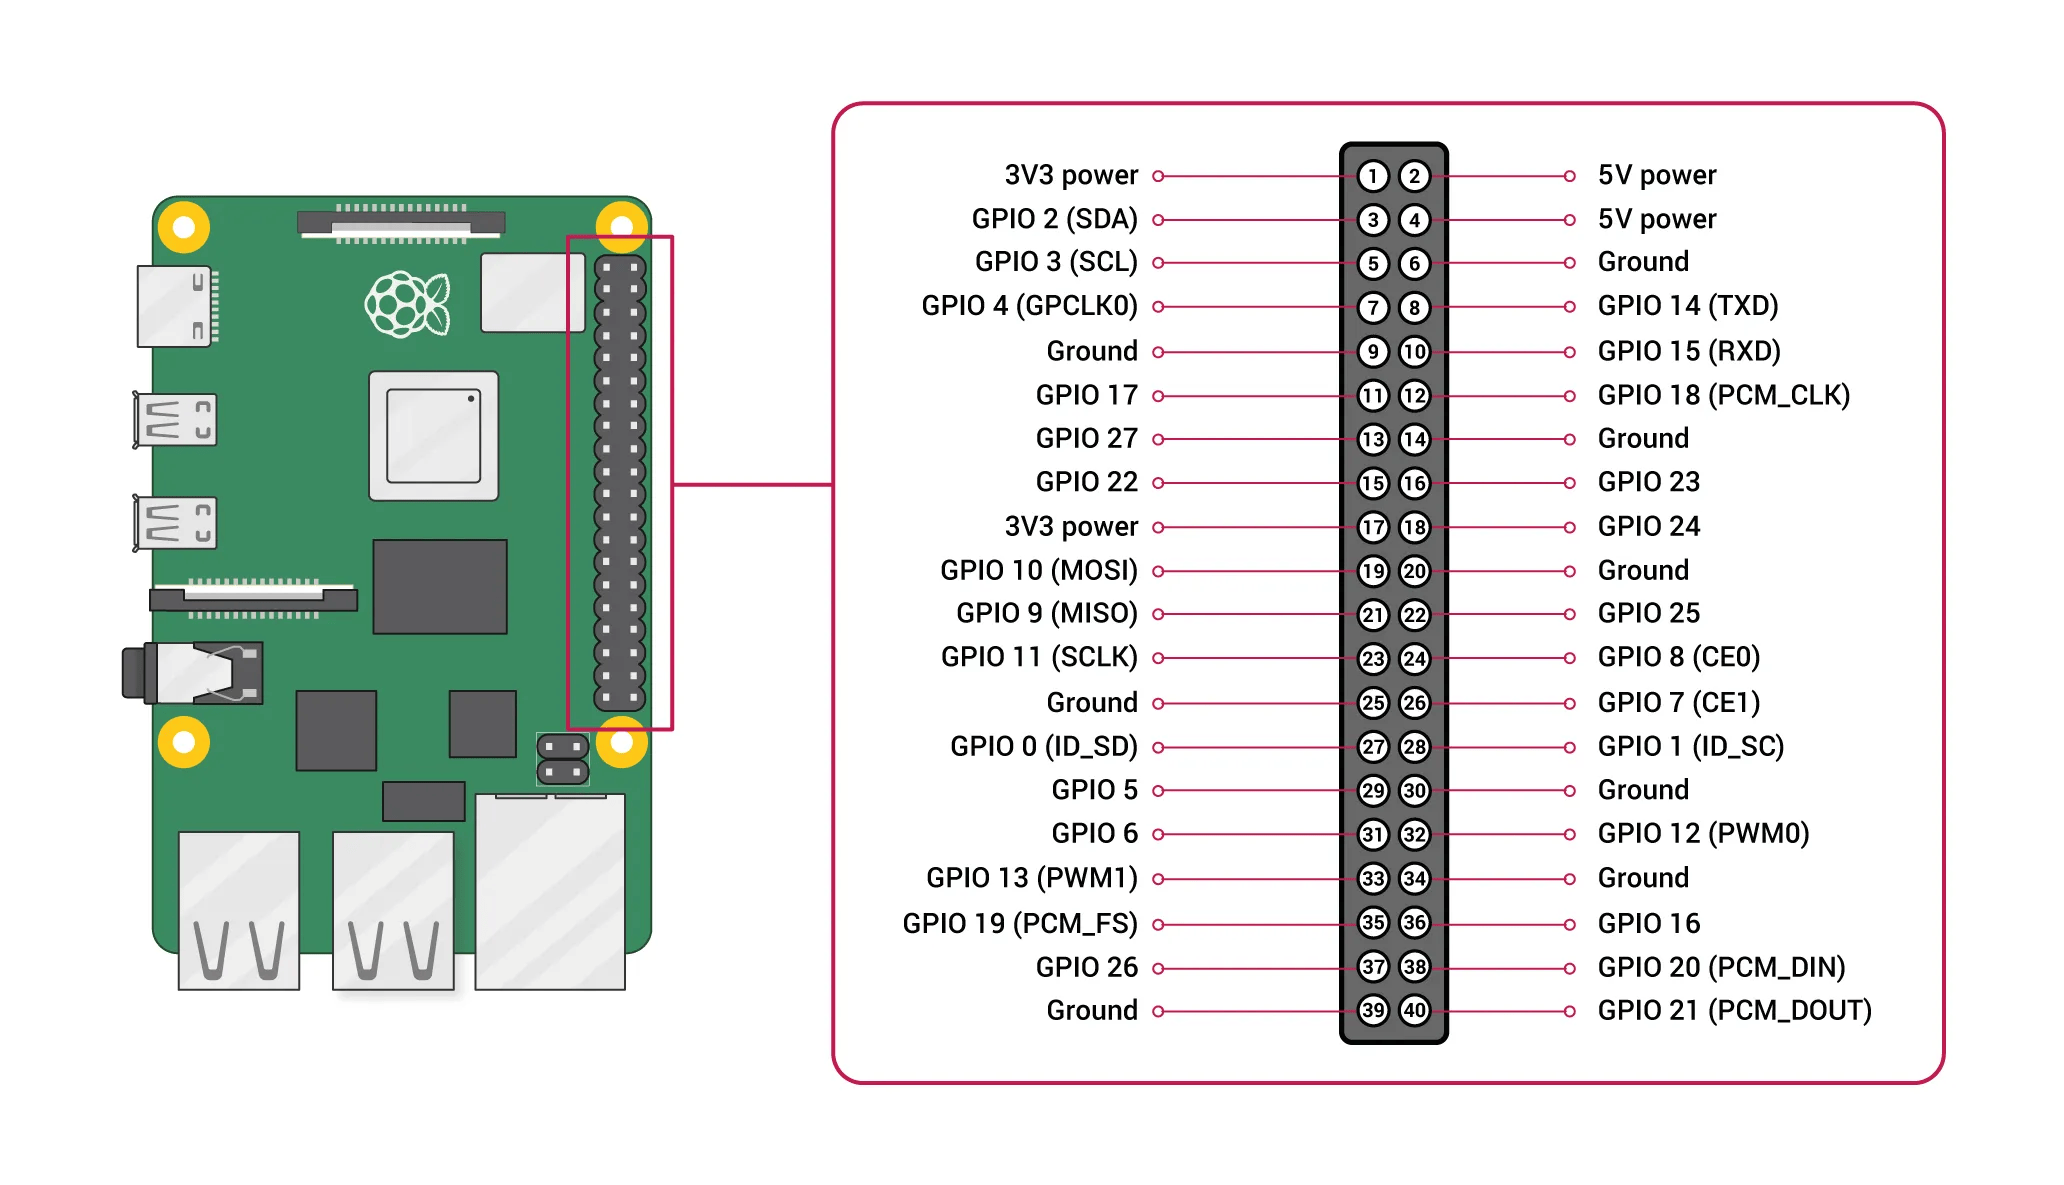
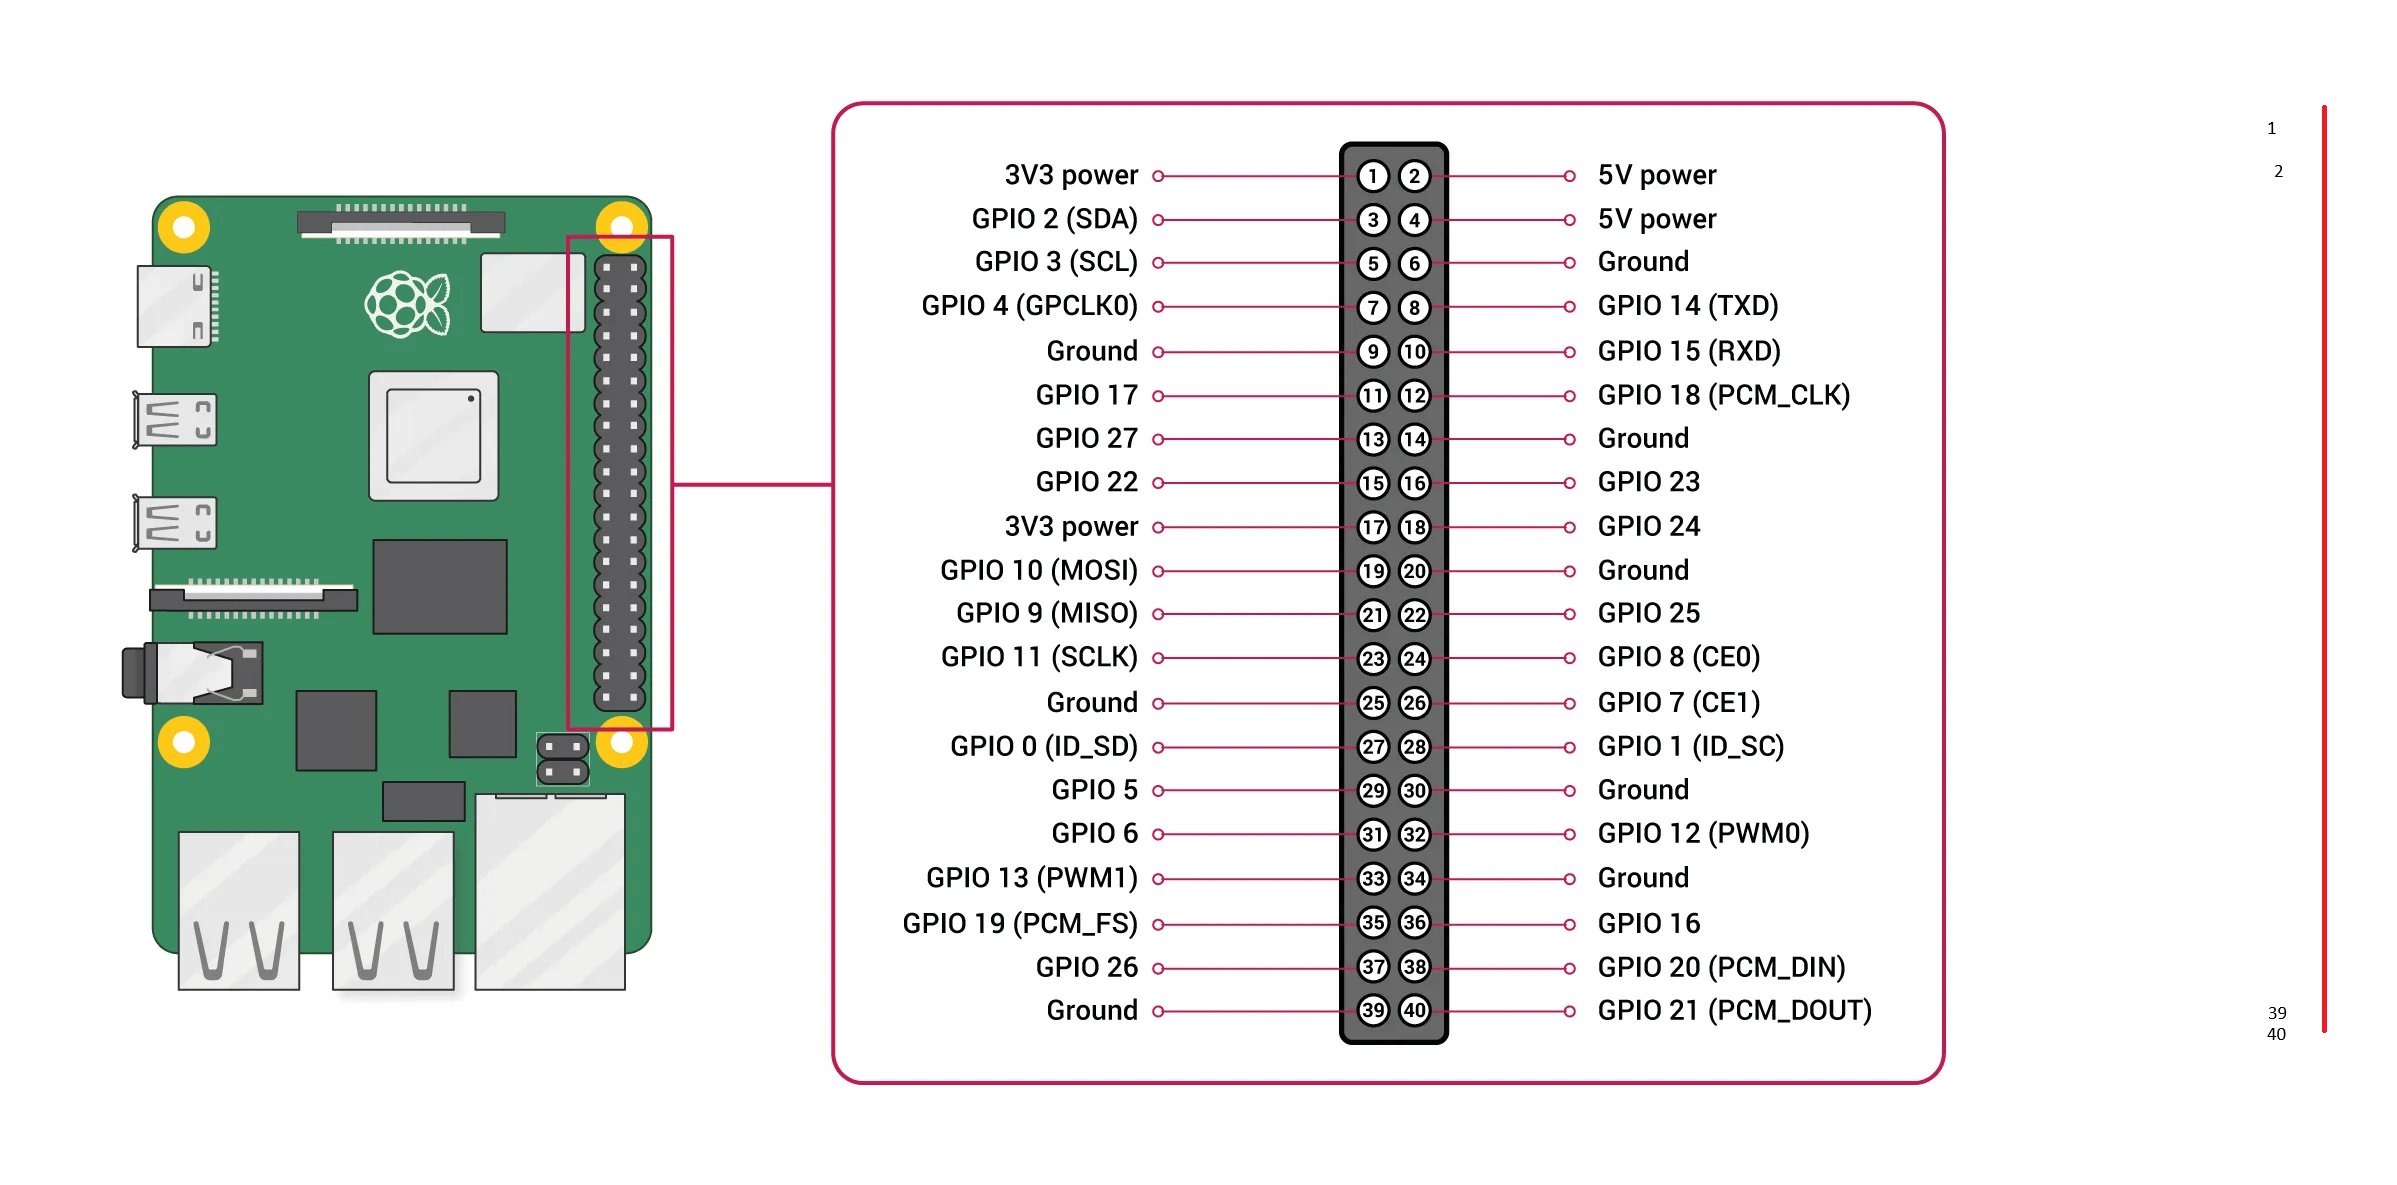
changes pinout by Pi-Stops-Input

diff --git a/Pi-Stops-Input/Program.cs b/Pi-Stops-Input/Program.cs
@@ -10,8 +10,8 @@ class Program
     {
         Env.Load();
         var isDevModeOn = Environment.GetEnvironmentVariable("IS_RUNNING_IN_DEVELOPMENT") == "true";
-
         using var sender = new Sender(isDveModeOn: isDevModeOn);
+        
         int s0Pin = 2; // Select/Address pin
         int s1Pin = 3; // Select/Address pin
         int s2Pin = 4; // Select/Address pin
@@ -25,8 +25,8 @@ class Program
             s0Pin = 2;
             s1Pin = 3;
             s2Pin = 4;
-            s3Pin = 17;
-            sigPin = 27;
+            s3Pin = 8;
+            sigPin = 10;
         }
         else if (pinMode != null && pinMode.Equals("stop-toggles", StringComparison.CurrentCultureIgnoreCase))
         {
